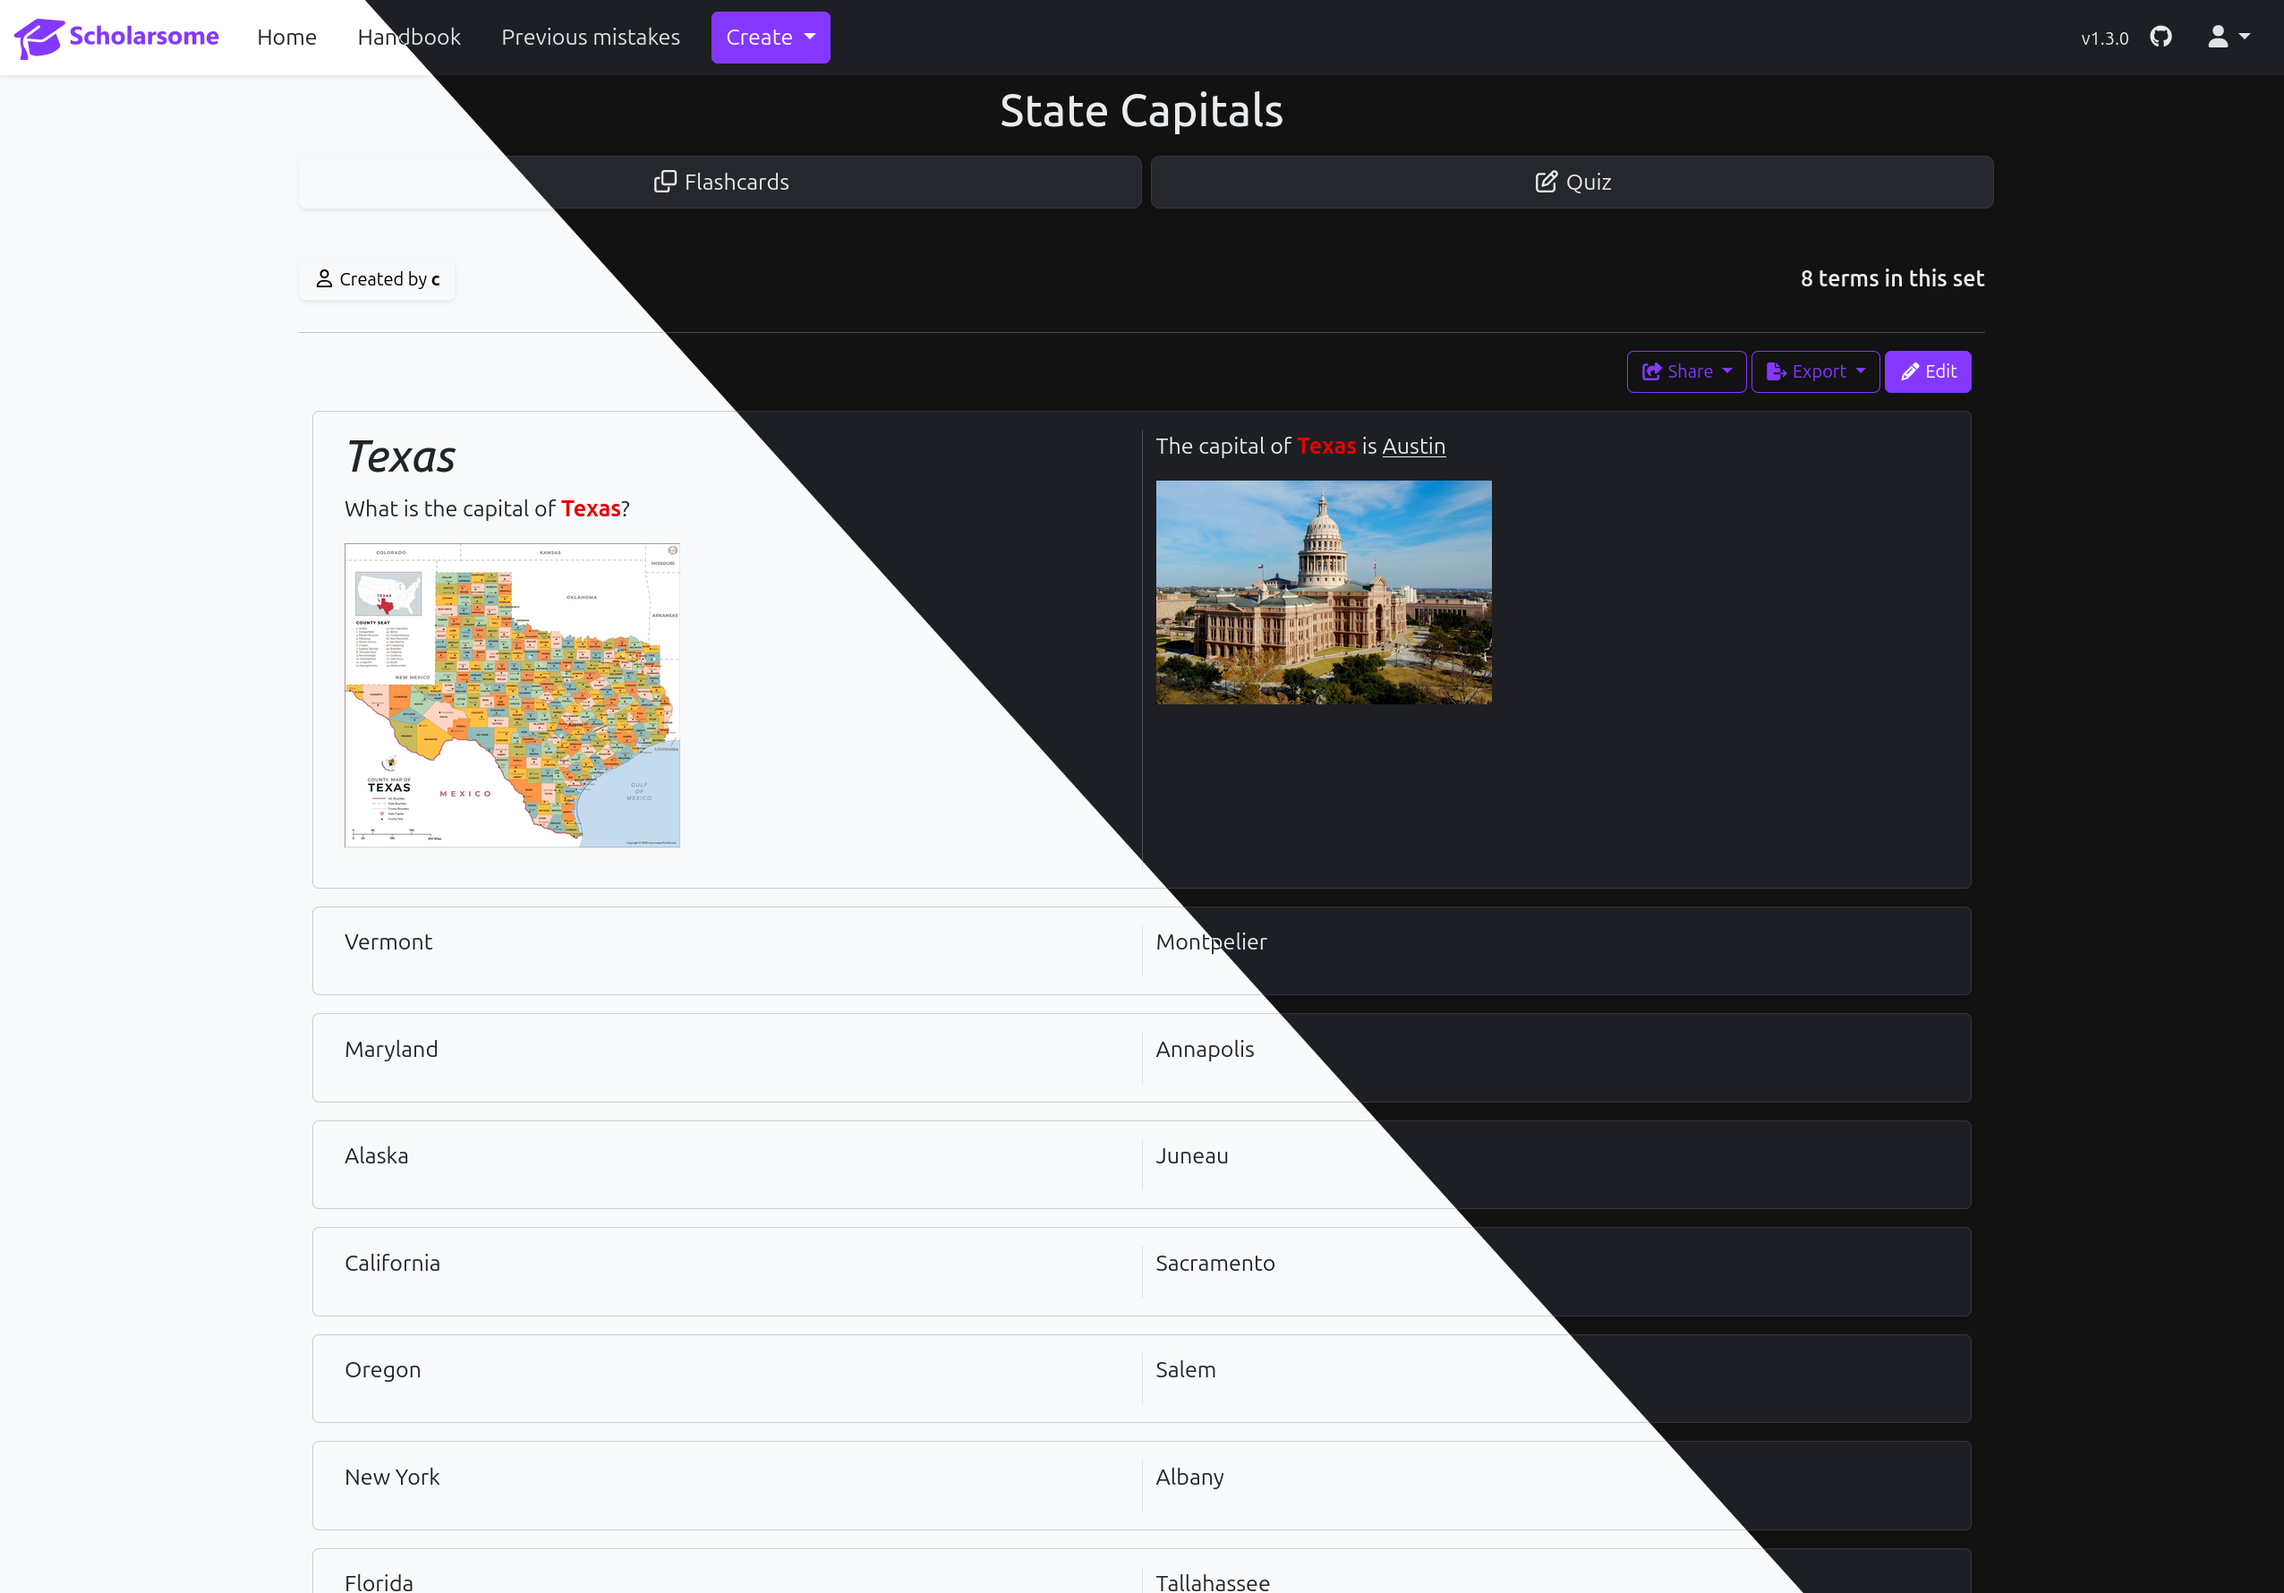
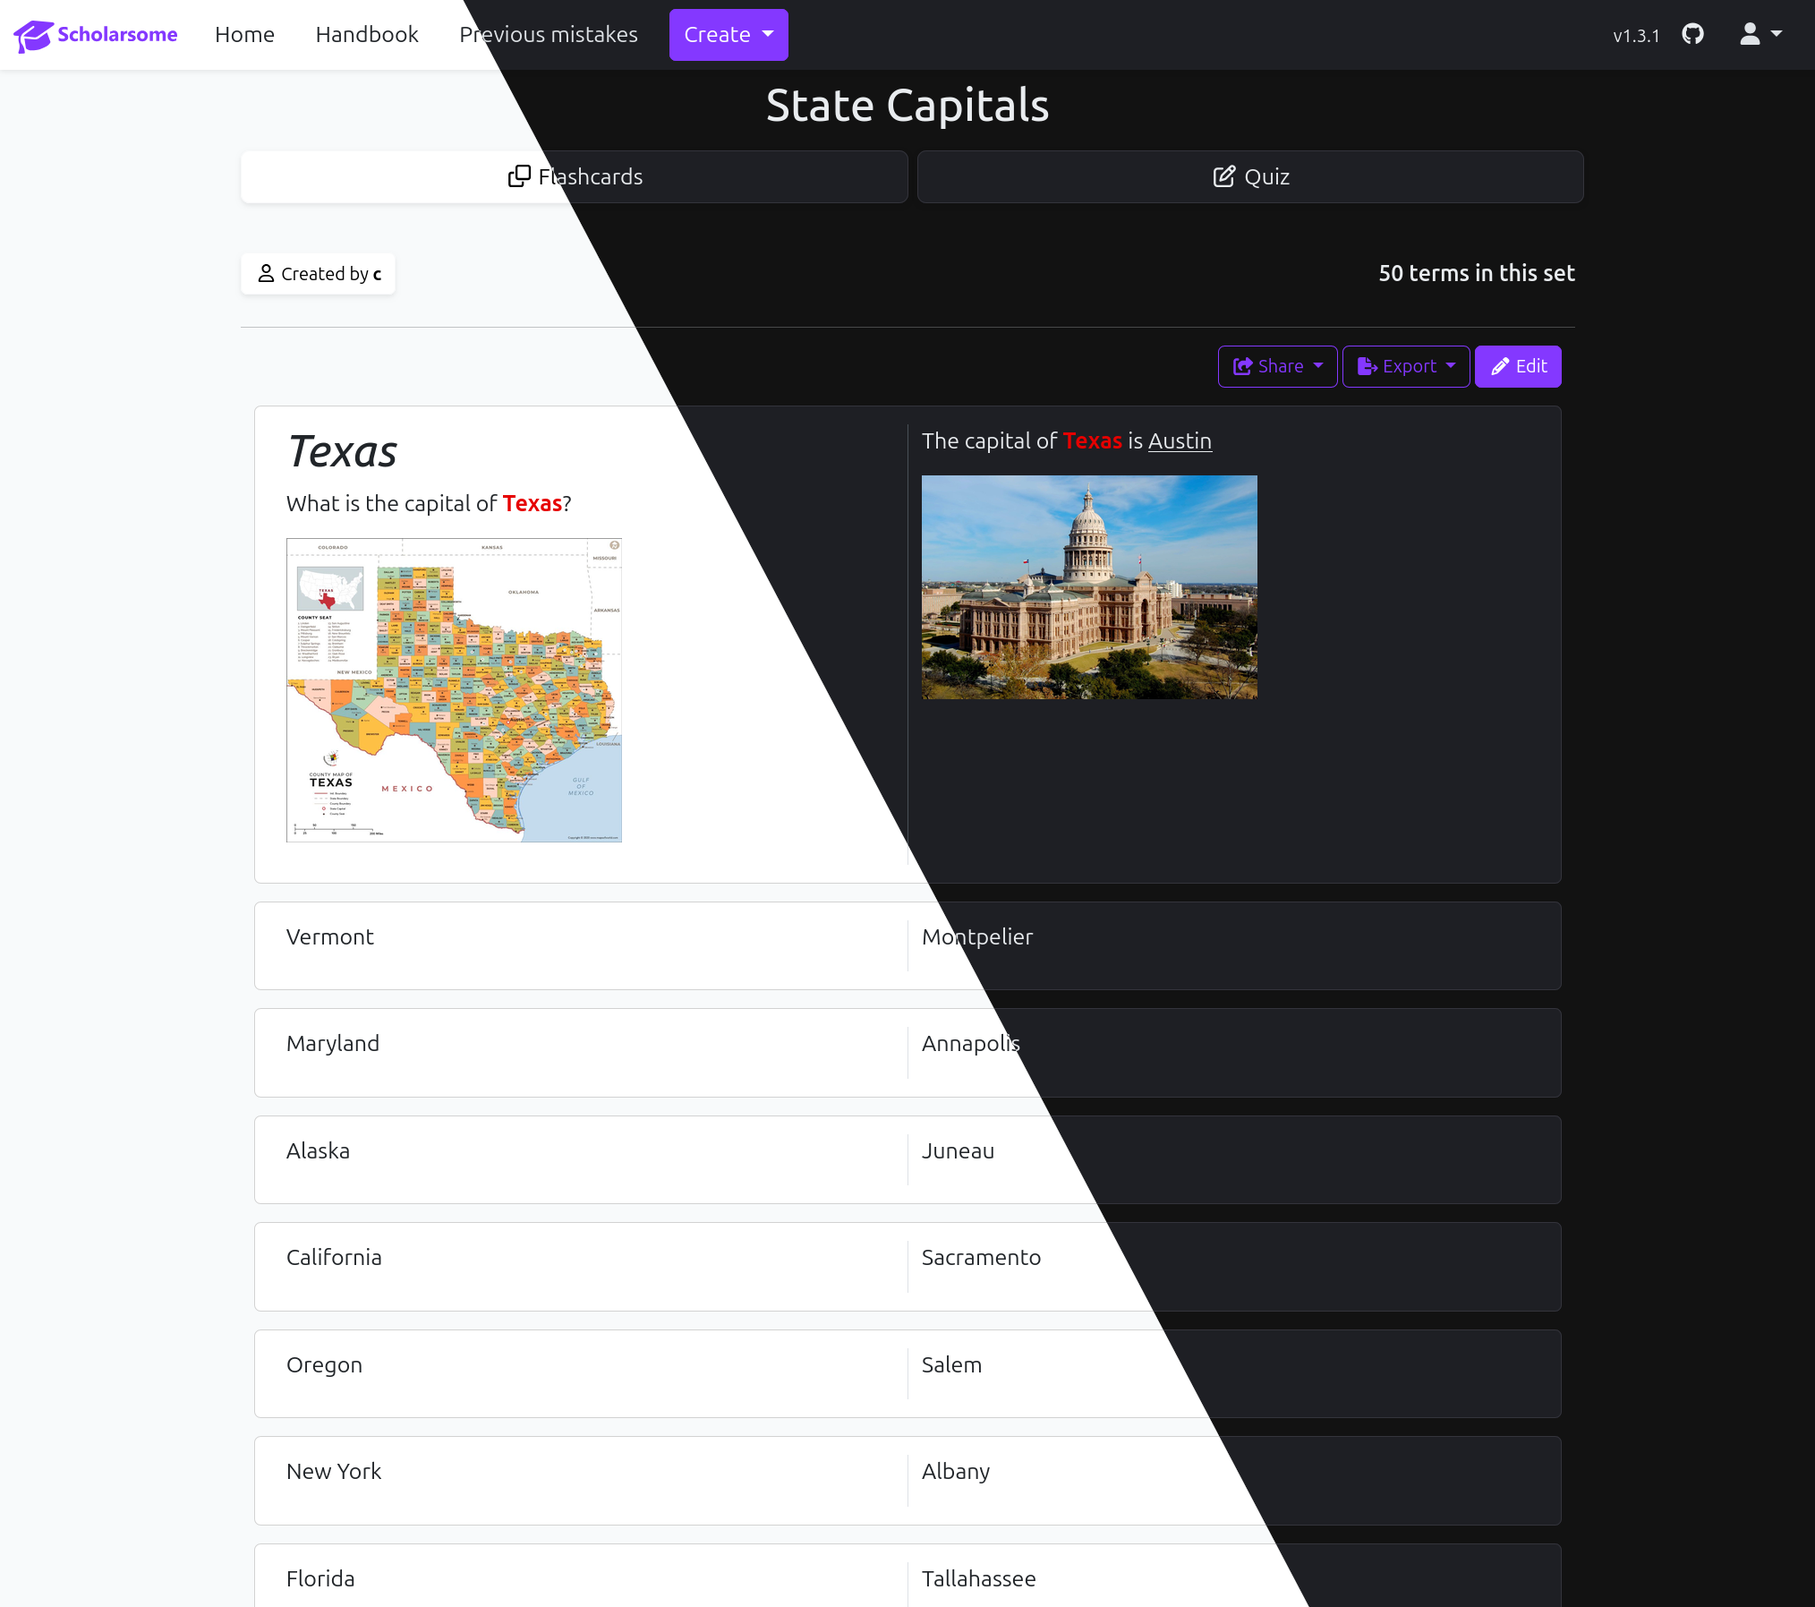
fix(light_mode): fixed light-mode bug introduced with bootstrap 5.3 update, making cards and buttons transparent now restoring them to a white background

diff --git a/apps/front/src/app/study-set/study-set.component.html b/apps/front/src/app/study-set/study-set.component.html
@@ -10,16 +10,16 @@
   </div>
   <div class="d-flex justify-content-evenly">
     <div class="row-cols-sm-4 col-md-6 m-auto w-50">
-      <a [routerLink]="['/study-set', setId, 'flashcards']"><button type="button" class="btn btn-lg btn-light w-100 my-2 shadow-sm"><fa-icon [icon]="['far', 'clone']"></fa-icon> Flashcards</button></a>
+      <a [routerLink]="['/study-set', setId, 'flashcards']"><button type="button" class="btn btn-lg btn-light bg-white w-100 my-2 shadow-sm"><fa-icon [icon]="['far', 'clone']"></fa-icon> Flashcards</button></a>
     </div>
     <div class="row mx-1"></div>
     <div class="row-cols-sm-4 col-md-6 m-auto w-50">
-      <a [routerLink]="['/study-set', setId, 'quiz']"><button type="button" class="btn btn-lg btn-light w-100 my-2 shadow-sm"><fa-icon [icon]="['far', 'pen-to-square']"></fa-icon> Quiz</button></a>
+      <a [routerLink]="['/study-set', setId, 'quiz']"><button type="button" class="btn btn-lg btn-light bg-white w-100 my-2 shadow-sm"><fa-icon [icon]="['far', 'pen-to-square']"></fa-icon> Quiz</button></a>
     </div>
   </div>
   <div class="mt-4 d-flex justify-content-between align-items-center" *ngIf="set()">
     <div class="d-flex align-items-center">
-      <a [routerLink]="['/profile', set()!.authorId]"><button type="button" class="btn btn-light shadow-sm"><fa-icon [icon]="['far', 'user']"></fa-icon> Created by <span class="fw-bold">{{author()}}</span></button></a>
+      <a [routerLink]="['/profile', set()!.authorId]"><button type="button" class="btn btn-light bg-white shadow-sm"><fa-icon [icon]="['far', 'user']"></fa-icon> Created by <span class="fw-bold">{{author()}}</span></button></a>
       <fa-icon *ngIf="set()!.private" [icon]="['far', 'eye-slash']" class="fs-5 ms-3"></fa-icon>
     </div>
     <p class="fs-5 fw-semibold mt-3">{{cards().length}} term{{cards().length > 1 ? 's' : ''}} in this set</p>

diff --git a/apps/front/src/styles.scss b/apps/front/src/styles.scss
@@ -23,7 +23,13 @@ $enable-negative-margins: true;
   --scholarsome-border: #dee2e6;
   --scholarsome-text: #212529;
   --scholarsome-muted: #6c757d;
-  --bs-body-bg: #f8fafb;
+  // `--bs-body-bg` drives Bootstrap components such as `.card`, `.dropdown-menu`,
+  // `.modal-content`, `.pagination`, etc. Bootstrap 5.3 changed these defaults from
+  // a hard-coded white to `var(--bs-body-bg)`. If it matched the page background the
+  // surfaces would blend into the page, so keep it distinct (white) while the page
+  // keeps its own `--scholarsome-body-bg`.
+  --bs-body-bg: #fff;
+  --bs-body-bg-rgb: 255, 255, 255;
 }
 
 [data-bs-theme="dark"] {
@@ -52,6 +58,13 @@ body {
 
 [data-bs-theme="dark"] {
   /* Surfaces (navbar, cards, dropdowns, modals) */
+  /* `bg-white`/`bg-light` are static Bootstrap utilities that would otherwise
+     render pure white in dark mode; map them to the dark surface instead. */
+  .bg-white,
+  .bg-light {
+    background-color: var(--scholarsome-surface) !important;
+  }
+
   nav.navbar {
     background-color: var(--scholarsome-surface) !important;
   }

diff --git a/apps/front/src/app/folder/folder.component.html b/apps/front/src/app/folder/folder.component.html
@@ -27,7 +27,7 @@
     </div>
     <div class="d-flex col-12 justify-content-md-end justify-content-sm-start align-items-start">
       <a *ngIf="!userIsAuthor()" [routerLink]="['/profile', folder()!.authorId]">
-        <button type="button" class="btn btn-light shadow-sm"><fa-icon [icon]="faUser"></fa-icon> Created by <span class="fw-bold">{{username()}}</span></button>
+        <button type="button" class="btn btn-light bg-white shadow-sm"><fa-icon [icon]="faUser"></fa-icon> Created by <span class="fw-bold">{{username()}}</span></button>
       </a>
       <button type="button" class="btn btn-primary mb-2" *ngIf="!editing() && userIsAuthor()" (click)="edit()">
         <fa-icon [icon]="faPencil"></fa-icon>
